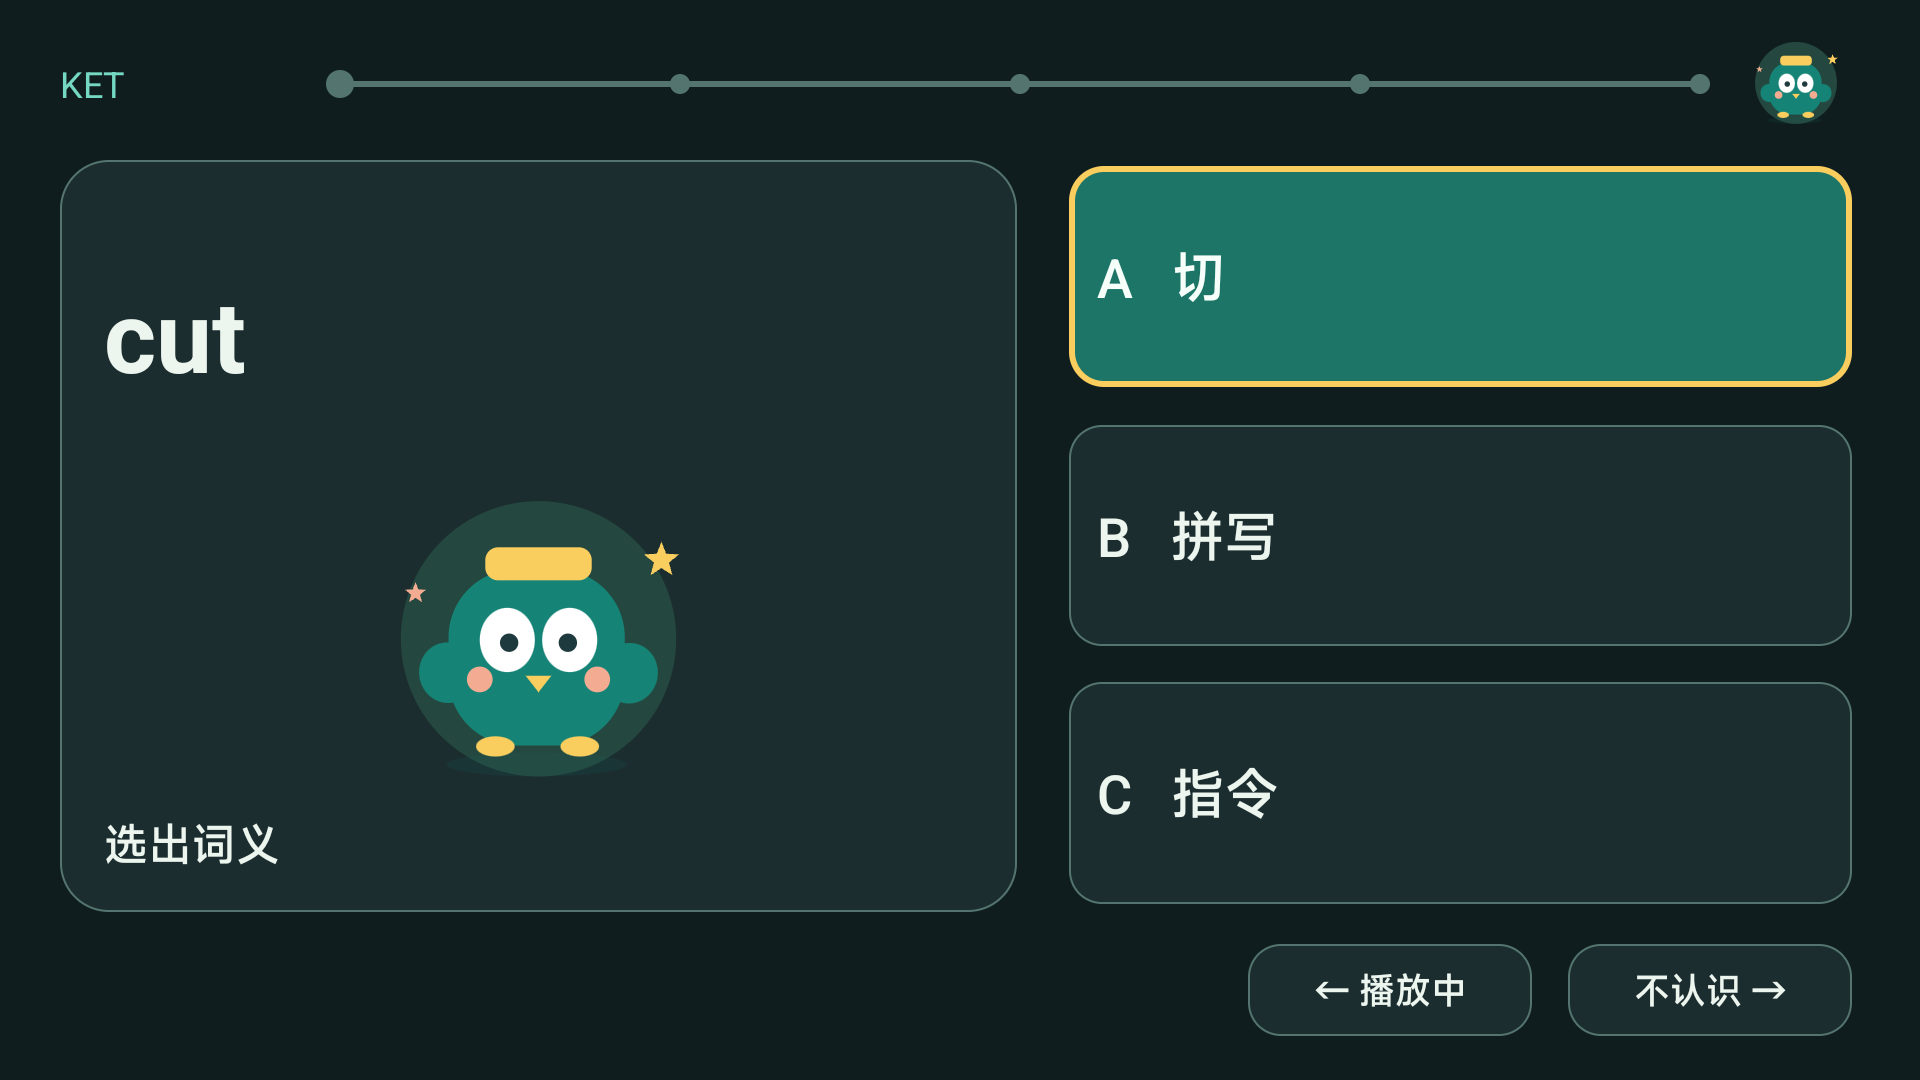
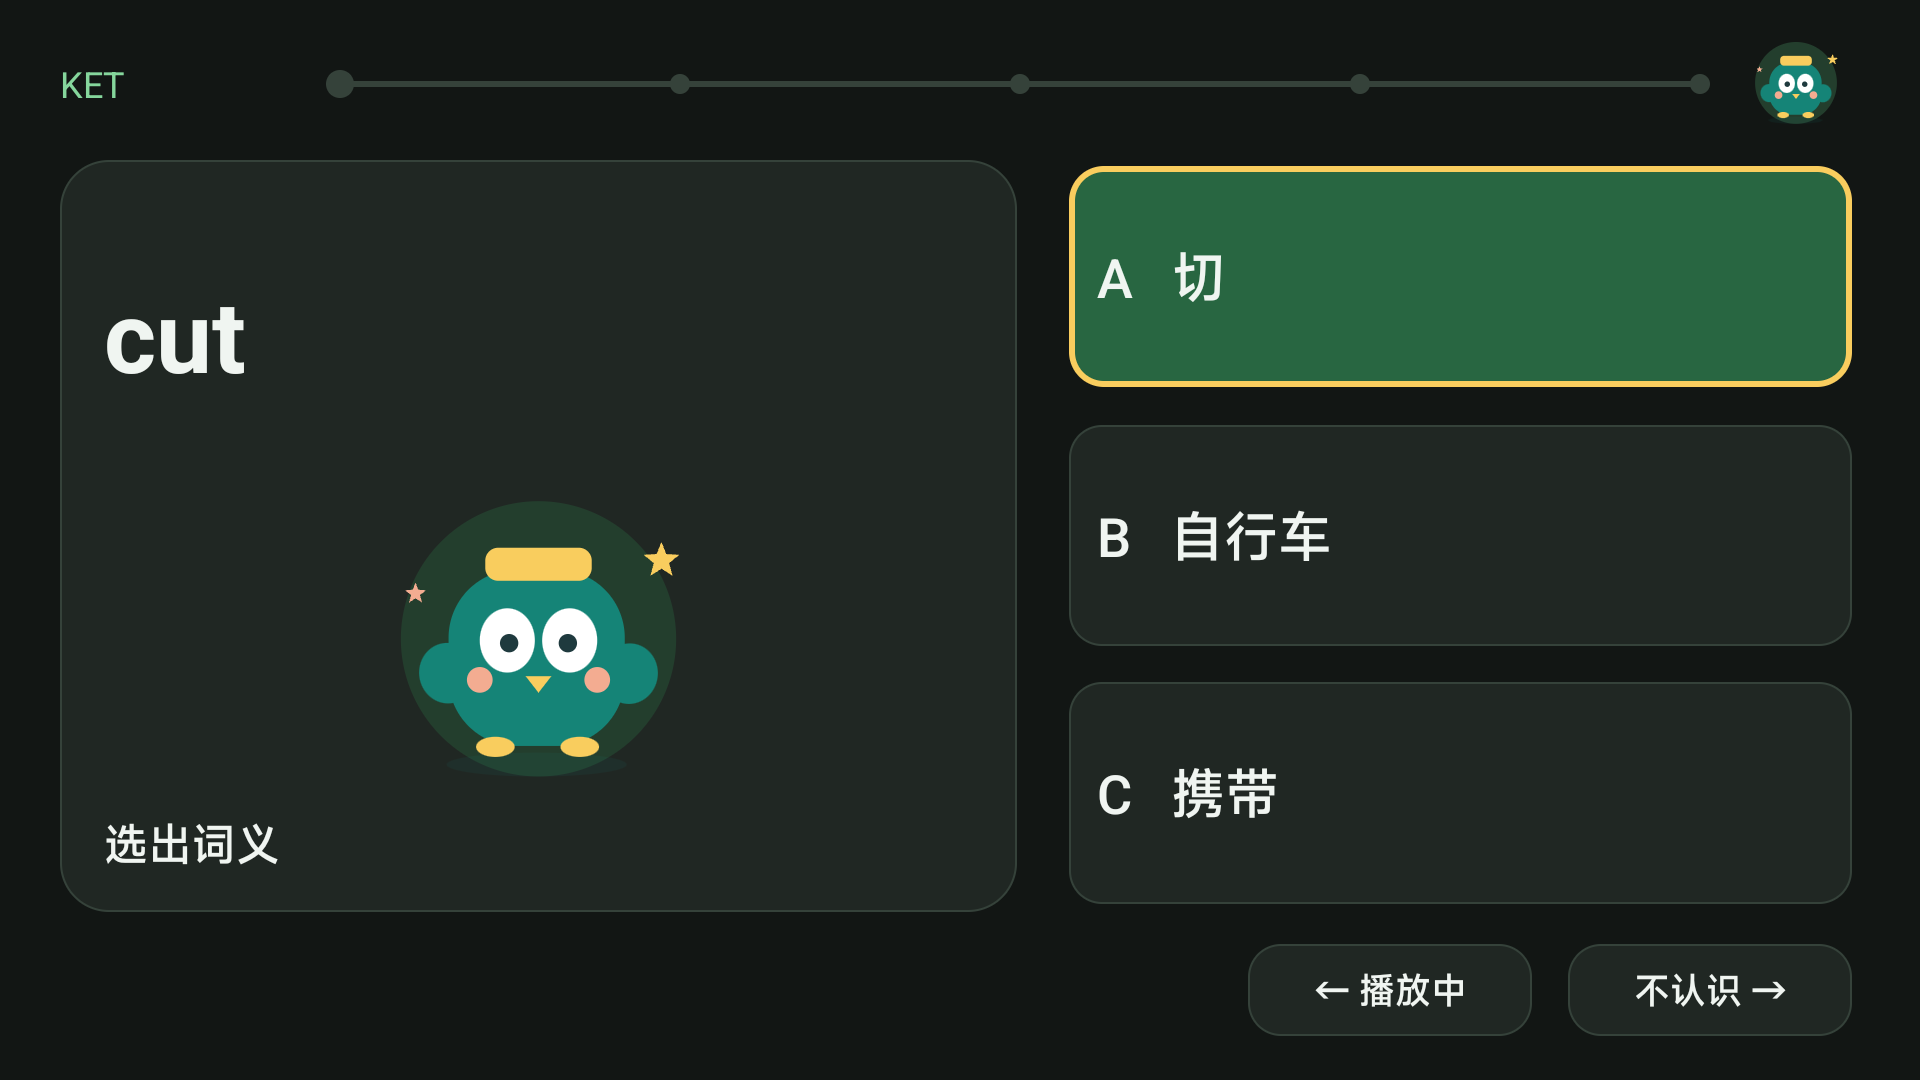
refactor: 统一颜色资源并优化深色配色

diff --git a/app/src/main/java/scfido/learnthenwatch/tv/LearningMascotView.java b/app/src/main/java/scfido/learnthenwatch/tv/LearningMascotView.java
@@ -13,7 +13,7 @@ import android.widget.FrameLayout;
 
 /** Original vector companion; animation follows attachment and window visibility. */
 public final class LearningMascotView extends View {
-    private static final int BODY = 0xFF158477, EYES = 0xFFFFFFFF, PUPILS = 0xFF1F3A3E, GOLD = 0xFFF9CD5E;
+    private final int body, eyes, pupils, gold, cheeks, shadow;
     private final TvUiTheme theme;
     private final Paint paint = new Paint(Paint.ANTI_ALIAS_FLAG);
     private ValueAnimator animator;
@@ -23,6 +23,9 @@ public final class LearningMascotView extends View {
     public LearningMascotView(Context context, TvUiTheme theme) {
         super(context); this.theme = theme; setImportantForAccessibility(IMPORTANT_FOR_ACCESSIBILITY_NO);
         setFocusable(false);
+        body = context.getColor(R.color.mascot_body); eyes = context.getColor(R.color.mascot_eyes);
+        pupils = context.getColor(R.color.mascot_pupils); gold = context.getColor(R.color.mascot_gold);
+        cheeks = context.getColor(R.color.mascot_cheeks); shadow = context.getColor(R.color.mascot_shadow);
     }
     public void happy() { happy = true; invalidate(); }
     @Override protected void onAttachedToWindow() { super.onAttachedToWindow(); startMotion(); }
@@ -45,26 +48,26 @@ public final class LearningMascotView extends View {
         float unit = Math.min(getWidth() / 220f, getHeight() / 176f);
         canvas.save(); canvas.translate((getWidth() - 220 * unit) / 2, (getHeight() - 176 * unit) / 2); canvas.scale(unit, unit);
         fill(theme.color(TvUiTheme.Role.ACCENT_SURFACE)); canvas.drawCircle(110, 86, 75, paint);
-        fill(0x18158477); canvas.drawOval(new RectF(60, 148, 158, 161), paint);
+        fill(shadow); canvas.drawOval(new RectF(60, 148, 158, 161), paint);
         canvas.translate(0, (float) Math.sin(phase * Math.PI * 2) * (happy ? 6 : 3));
-        fill(BODY); canvas.drawRoundRect(new RectF(61, 48, 157, 144), 37, 37, paint);
+        fill(body); canvas.drawRoundRect(new RectF(61, 48, 157, 144), 37, 37, paint);
         canvas.save(); canvas.rotate(happy ? -25 : -8, 66, 97); canvas.drawOval(new RectF(44, 87, 75, 120), paint); canvas.restore();
         canvas.save(); canvas.rotate(happy ? 25 : 8, 152, 97); canvas.drawOval(new RectF(145, 87, 176, 120), paint); canvas.restore();
-        fill(EYES); canvas.drawOval(new RectF(78, 69, 108, 104), paint); canvas.drawOval(new RectF(112, 69, 142, 104), paint);
-        fill(PUPILS);
+        fill(eyes); canvas.drawOval(new RectF(78, 69, 108, 104), paint); canvas.drawOval(new RectF(112, 69, 142, 104), paint);
+        fill(pupils);
         boolean blink = phase > .87f && phase < .92f;
         if (happy || blink) {
             paint.setStyle(Paint.Style.STROKE); paint.setStrokeWidth(3.2f);
             canvas.drawArc(new RectF(86, 80, 100, 94), 190, 160, false, paint);
             canvas.drawArc(new RectF(120, 80, 134, 94), 190, 160, false, paint);
         } else { canvas.drawCircle(94, 88, 5, paint); canvas.drawCircle(126, 88, 5, paint); }
-        fill(GOLD);
+        fill(gold);
         Path beak = new Path(); beak.moveTo(103, 106); beak.lineTo(117, 106); beak.lineTo(110, 115); beak.close(); canvas.drawPath(beak, paint);
         canvas.drawRoundRect(new RectF(81, 36, 139, 54), 7, 7, paint);
-        fill(0xFFF3AC91); canvas.drawCircle(78, 108, 7, paint); canvas.drawCircle(142, 108, 7, paint);
-        fill(GOLD); canvas.drawOval(new RectF(76, 139, 97, 150), paint); canvas.drawOval(new RectF(122, 139, 143, 150), paint);
-        star(canvas, 177, 43, 10 + (float) Math.sin(phase * Math.PI * 2) * 2, GOLD);
-        star(canvas, 43, 61, 6, 0xFFF3AC91);
+        fill(cheeks); canvas.drawCircle(78, 108, 7, paint); canvas.drawCircle(142, 108, 7, paint);
+        fill(gold); canvas.drawOval(new RectF(76, 139, 97, 150), paint); canvas.drawOval(new RectF(122, 139, 143, 150), paint);
+        star(canvas, 177, 43, 10 + (float) Math.sin(phase * Math.PI * 2) * 2, gold);
+        star(canvas, 43, 61, 6, cheeks);
         canvas.restore();
     }
     private static void star(Canvas c, float x, float y, float size, int color) {
@@ -79,6 +82,9 @@ public final class LearningMascotView extends View {
         path.close(); c.drawPath(path, p);
     }
     public static void celebrate(FrameLayout parent) {
+        Context context = parent.getContext();
+        final int[] confettiColors = {context.getColor(R.color.mascot_gold), context.getColor(R.color.mascot_body),
+                context.getColor(R.color.mascot_cheeks), context.getColor(R.color.mascot_confetti_blue)};
         View burst = new View(parent.getContext()) {
             float progress;
             ValueAnimator motion;
@@ -94,7 +100,7 @@ public final class LearningMascotView extends View {
                 for (int i = 0; i < 28; i++) {
                     float x = getWidth() * (i / 28f) + (float) Math.sin(i * 7) * progress * 65;
                     float y = -25 + progress * getHeight() * (0.5f + (i % 6) * .12f);
-                    confetti.setColor(new int[]{GOLD, BODY, 0xFFF3AC91, 0xFF8BBFE6}[i % 4]);
+                    confetti.setColor(confettiColors[i % confettiColors.length]);
                     confetti.setAlpha((int) ((1 - progress) * 230));
                     canvas.save(); canvas.rotate(progress * (i % 2 == 0 ? 220 : -220), x, y);
                     canvas.drawRoundRect(x, y, x + 7, y + 15, 2, 2, confetti); canvas.restore();

diff --git a/app/src/main/java/scfido/learnthenwatch/tv/TvUiTheme.java b/app/src/main/java/scfido/learnthenwatch/tv/TvUiTheme.java
@@ -19,37 +19,45 @@ import android.widget.TextView;
 /** Shared TV dimensions, colours and visible remote-control focus. */
 public final class TvUiTheme {
     public enum Role {
-        BACKGROUND(0xFFFFF9EE, 0xFF101D1F),
-        SURFACE(0xFFFFFFFF, 0xFF1B2D2F),
-        TEXT(0xFF1F3A3E, 0xFFEDF5EF),
-        MUTED(0xFF5C7070, 0xFFAFBFBA),
-        ACCENT(0xFF158477, 0xFF75D8C2),
-        ACCENT_SURFACE(0xFFDEF4E7, 0xFF24483F),
-        PRIMARY(0xFF158477, 0xFF1D7568),
-        ON_PRIMARY(0xFFFFFFFF, 0xFFF6FFF9),
-        GOLD(0xFFF9CD5E, 0xFFF9CD5E),
-        LINE(0xFFD1DFD6, 0xFF54756F),
-        ERROR(0xFFA4412D, 0xFFFFB4A2),
-        WARNING_TRACK(0x5535484E, 0x88617470);
+        BACKGROUND(R.color.theme_light_background, R.color.theme_dark_background),
+        SURFACE(R.color.theme_light_surface, R.color.theme_dark_surface),
+        TEXT(R.color.theme_light_text, R.color.theme_dark_text),
+        MUTED(R.color.theme_light_muted, R.color.theme_dark_muted),
+        ACCENT(R.color.theme_light_accent, R.color.theme_dark_accent),
+        ACCENT_SURFACE(R.color.theme_light_accent_surface, R.color.theme_dark_accent_surface),
+        PRIMARY(R.color.theme_light_primary, R.color.theme_dark_primary),
+        ON_PRIMARY(R.color.theme_light_on_primary, R.color.theme_dark_on_primary),
+        GOLD(R.color.theme_light_gold, R.color.theme_dark_gold),
+        LINE(R.color.theme_light_line, R.color.theme_dark_line),
+        ERROR(R.color.theme_light_error, R.color.theme_dark_error),
+        WARNING_TRACK(R.color.theme_light_warning_track, R.color.theme_dark_warning_track);
 
-        private final int light, dark;
-        Role(int light, int dark) { this.light = light; this.dark = dark; }
+        private final int lightResource, darkResource;
+        Role(int lightResource, int darkResource) {
+            this.lightResource = lightResource; this.darkResource = darkResource;
+        }
     }
 
     /** Immutable palette shared by all style bindings in one refresh. */
     private static final class Palette {
         public final boolean dark;
-        private Palette(boolean dark) { this.dark = dark; }
-        public int color(Role role) { return dark ? role.dark : role.light; }
+        private final int[] values = new int[Role.values().length];
+        private Palette(Context context, boolean dark) {
+            this.dark = dark;
+            for (Role role : Role.values())
+                values[role.ordinal()] = context.getColor(dark ? role.darkResource : role.lightResource);
+        }
+        public int color(Role role) { return values[role.ordinal()]; }
     }
 
     private interface BackgroundStyle { void apply(Palette colors); }
-    private static final Palette LIGHT = new Palette(false), DARK = new Palette(true);
+    private final Palette light, dark;
     private final Context context;
     private Palette colors;
 
     public TvUiTheme(Context context, ThemeMode mode) {
         this.context = context;
+        light = new Palette(context, false); dark = new Palette(context, true);
         refresh(mode, null);
     }
     public int color(Role role) { return colors.color(role); }
@@ -59,7 +67,7 @@ public final class TvUiTheme {
     public void refresh(ThemeMode mode, View root) {
         boolean systemDark = (context.getResources().getConfiguration().uiMode & Configuration.UI_MODE_NIGHT_MASK)
                 == Configuration.UI_MODE_NIGHT_YES;
-        colors = mode.isDark(systemDark) ? DARK : LIGHT;
+        colors = mode.isDark(systemDark) ? dark : light;
         if (root != null) applyTree(root);
     }
     private void applyTree(View view) {

diff --git a/app/src/androidTest/java/scfido/learnthenwatch/tv/LessonLayoutChecks.java b/app/src/androidTest/java/scfido/learnthenwatch/tv/LessonLayoutChecks.java
@@ -252,7 +252,17 @@ final class LessonLayoutChecks {
             check(audioGenerationOnMain() == spoken && screen.isPreparing() == preparing,
                     "appearance keeps audio generation and preparation state");
             int background = ((ColorDrawable) root.getBackground()).getColor();
-            check(background == (mode == ThemeMode.DARK ? 0xFF101D1F : 0xFFFFF9EE), "lesson uses selected appearance");
+            check(background == context.getColor(mode == ThemeMode.DARK
+                    ? R.color.theme_dark_background : R.color.theme_light_background), "lesson uses selected appearance");
+            android.content.res.TypedArray windowColors = context.obtainStyledAttributes(
+                    mode == ThemeMode.DARK ? R.style.AppThemeDark : R.style.AppThemeLight,
+                    new int[]{android.R.attr.windowBackground, android.R.attr.colorAccent});
+            try {
+                check(windowColors.getColor(0, 0) == background, "window and lesson share background resource");
+                check(windowColors.getColor(1, 0) == context.getColor(mode == ThemeMode.DARK
+                        ? R.color.theme_dark_accent : R.color.theme_light_accent),
+                        "window uses selected accent resource");
+            } finally { windowColors.recycle(); }
             Snapshot after = repository.snapshot();
             check(before.balanceMs == after.balanceMs && before.totalAnswered == after.totalAnswered
                     && before.firstCorrect == after.firstCorrect, "appearance preserves rewards and answer records");

diff --git a/docs/VALIDATION.md b/docs/VALIDATION.md
@@ -12,6 +12,26 @@
 
 ## 验证结果
 
+### 未发布：统一颜色资源（2026-11-17）
+
+将浅色、深色的语义配色及吉祥物、桌面图标和横幅的固定颜色集中到 `res/values/colors.xml`，保持原色值。Java 主题加载明确的浅色和深色资源，XML 窗口样式及矢量素材引用同一资源表。学习页检查直接读取颜色资源，并验证窗口背景、强调色与当前模式一致，不再复制颜色常量。颜色维护方式见 [构建文档](BUILDING.md#界面颜色维护)。
+
+30 项单元测试、调试 APP 与设备测试 APK 构建、课程完整性校验通过；应用 Java、XML 样式与素材及设备测试代码中的色值扫描仅在 `colors.xml` 保留颜色字面值。
+
+在 MiTV-MFTR0 / Android 14 上使用隔离记录，通过 741 项页面与输入、168 项遥控器导航和 28 项主题设置断言；其中包含窗口样式与页面共享背景色、窗口强调色使用相应主题资源的检查。自动切换系统深浅主题时，学习页与 PIN 页保持视图、焦点及记录连续。桌面图标和横幅的资源引用还原后，与原矢量文件的路径及颜色值完全一致。
+
+已查看浅色和深色的首页、学习页、PIN 页截图，配色与迁移前一致。证据保留在忽略目录 `build/theme-checks/color-resources`。结束后恢复原测试 APK、系统夜间模式、无障碍及通知监听设置，移除临时调试 APP；正式 APK 摘要保持不变，正式版监控回读 `connected=true`。
+
+### 未发布：炭黑与清爽绿色深色配色（2026-11-17）
+
+深色界面采用炭黑背景 `#121614`、灰绿卡片 `#202723` 和清爽绿色 `#85D69C`；焦点卡片使用 `#233E2D`，主要操作使用 `#286641`，普通边框降低到 `#35423A`。沿用现有布局、插画及主题选择方式。普通卡片上正文与次要文字的对比度分别为 13.84:1、6.91:1，主要按钮文字为 6.21:1。
+
+30 项单元测试、调试 APP 与设备测试 APK 构建、课程完整性校验及 3 项主机端设备清理测试通过。在 MiTV-MFTR0 / Android 14 上使用临时调试版与隔离记录，通过 718 项页面与输入、168 项遥控器导航、28 项主题设置断言；前台切换系统主题时，学习页及已输入部分 PIN 的页面均保持视图、焦点与记录连续。
+
+深色自动学习页首轮在播放器暂停音频断言处失败，清理后使用同一构建复查，通过 98 项实际播放与生命周期断言。已查看到期学习页的答案焦点与完成页。首轮证据保留在忽略目录 `build/theme-checks/charcoal-green`，复查记录位于 `build/theme-checks/charcoal-green-recheck`。
+
+已逐张查看首页、学习页、地图、学习记录、家长配置及 PIN 实机截图，并更新 `docs/screenshots/*-dark.png`。结束后移除临时调试 APP、恢复原测试 APK，正式 APK 摘要、系统夜间模式、无障碍列表与总开关、通知监听列表均与测试前一致，正式版监控回读 `connected=true`。本轮为本地配色修改与隔离验收，电视正式安装仍为已发布的 1.7.0。
+
 ### 1.7.0 深浅主题（2026-11-17）
 
[1 lines of base64/hex data omitted]

diff --git a/docs/BUILDING.md b/docs/BUILDING.md
@@ -68,6 +68,12 @@ python tools/check_monitor_recovery.py --device <DEVICE> --reboot --standby
 
 另需实看实际 bilibili 播放：剩余 30 秒时顶部只有约 4dp 的窄条，暂停后不再缩短，恢复后继续；离开播放器、待机或关闭管控时移除。检查约 600ms 的视频渐隐与题目渐显是否连续、有无黑屏或视频闪回；题目完全显示两秒后才启用答案和自动发音。准备中检查返回与原生音量条，完成后分别验证回学习首页、返回原播放器，以及当天额度用完时不能继续观看。使用隔离记录，保留正式学习数据和无关无障碍服务；截图不能代替动画及真实遥控器验收。
 
+## 界面颜色维护
+
+所有应用颜色值集中在 `app/src/main/res/values/colors.xml`。`theme_light_*` 与 `theme_dark_*` 分别定义浅色和深色的背景、卡片、文字、强调色等语义角色，Java 的 `TvUiTheme.Role` 和 XML 窗口样式共同引用这些资源。修改配色只需编辑该文件，不在页面或测试中复制色值。
+
+两套配色使用明确的资源名，不依赖 `values-night` 覆盖色值，以支持用户在系统深色时手动选择浅色，以及反向选择。自动模式仍按系统夜间状态选择相应配色。`mascot_*` 和 `launcher_*` 是独立的插画、桌面素材颜色；它们不随界面主题变化。新增控件复用已有语义角色，需要新用途时在资源表和 `TvUiTheme.Role` 中一并命名。
+
 ## 正式签名
 
 首次生成并构建：

diff --git a/CHANGELOG.md b/CHANGELOG.md
@@ -1,5 +1,10 @@
 # 更新记录
 
+## [Unreleased]
+
+- 调整深色界面为炭黑背景与灰绿卡片，以清爽绿色突出当前焦点和主要操作，改善界面层次。
+- 统一页面、窗口和图形素材的颜色定义，保持浅色、深色及自动模式的配色一致。
+
 ## [1.7.0] - 2026-11-17
 
 - 增加浅色与深色界面配色，可在「家长配置 → 系统与记录 → 界面主题」选择自动、浅色或深色，按确认键切换并立即生效。
